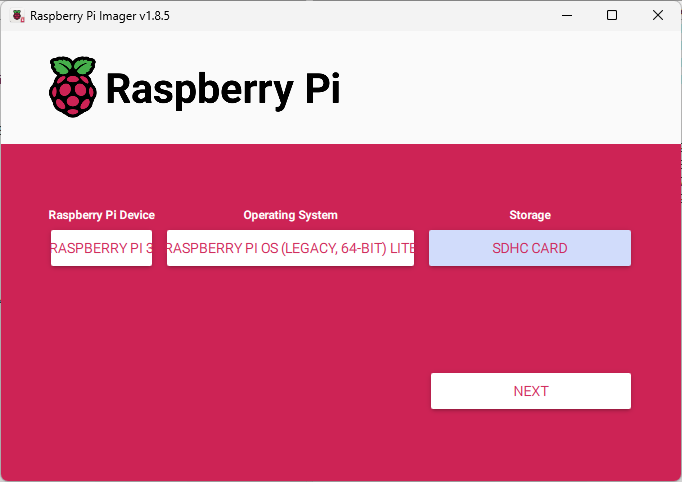
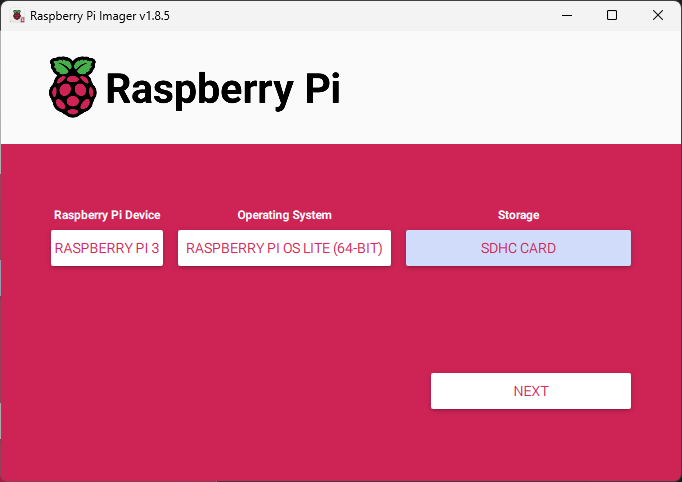
Updated instructions as openocd 0.12.0-1+rpt1 found to be working on Debian bookworm OS

diff --git a/README.md b/README.md
@@ -559,11 +559,9 @@ Now the test should pass. Have a look at the 2 python files in the **system_test
 To execute the test on the target connected to the RPi, first an SD Card needs to be created with an OS for the RPi. After which the RPi can be linked to the repository as an action runner.
 
 #### Preparing the SD Card
-The SD Card for this project was created using the Windows version of the [Raspberry Pi Imager](https://www.raspberrypi.com/software/). On the first page of the tool select which RPi version to create an image for, Which image to use and which SD Card to write it to. Here we are using an RPi3 and the Raspberry OS Lite (Legacy, 64-bit):
+The SD Card for this project was created using the Windows version of the [Raspberry Pi Imager](https://www.raspberrypi.com/software/). On the first page of the tool select which RPi version to create an image for, Which image to use and which SD Card to write it to. Here we are using an RPi3 and the Raspberry OS Lite (64-bit):
 
 ![Raspberry Pi Imager 1](images/rpi_imager_1.png)
-
-Here is a clearer image of the image selection, as it is important to select the Bullseye legacy image. In the latest image the openocd tool can't be configured to the working, 0.11.0~rc2-1, version.
 
 ![Raspberry Pi Imager 1a](images/rpi_imager_1a.png)
 
@@ -586,9 +584,7 @@ After starting the RPi for the first time it is good practice to run the update 
 
 Install openocd which is used for programming the NUCLEO board:
 
-    sudo apt install -y --allow-downgrades openocd=0.11.0~rc2-1 python3-venv python3-dev
-
-NOTE that when `sudo apt upgrade` is run again that the openocd package will be upgraded to a later version which fails during flash write on the STM32 MCU. If this happens just run the above command again to downgrade the openocd to the 0.11.0~rc2-1 once more.
+    sudo apt install -y openocd
 
 In github go to the forked repository's **Settings -> Actions -> Runners** and press the **New self hosted runner**:
 
